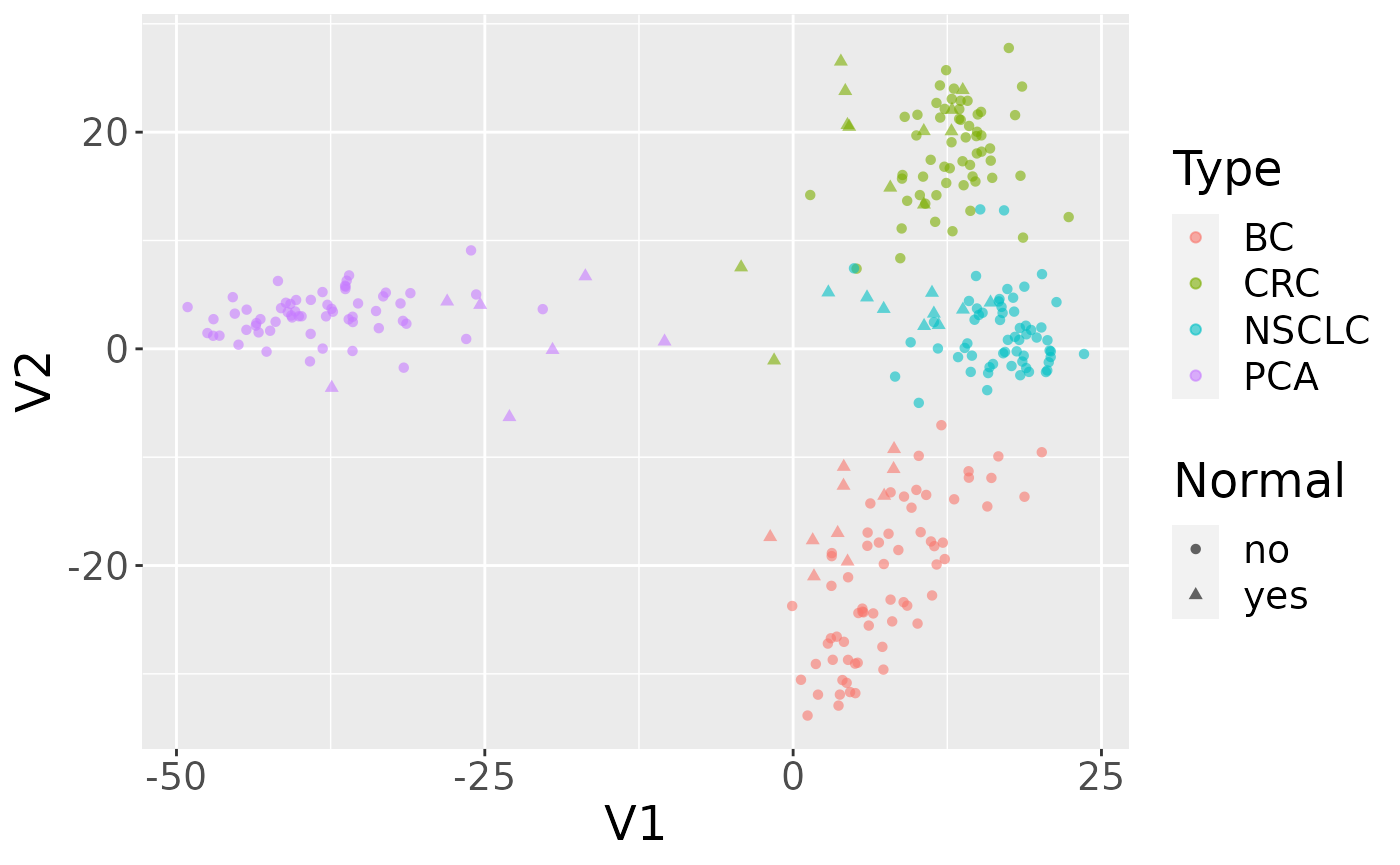
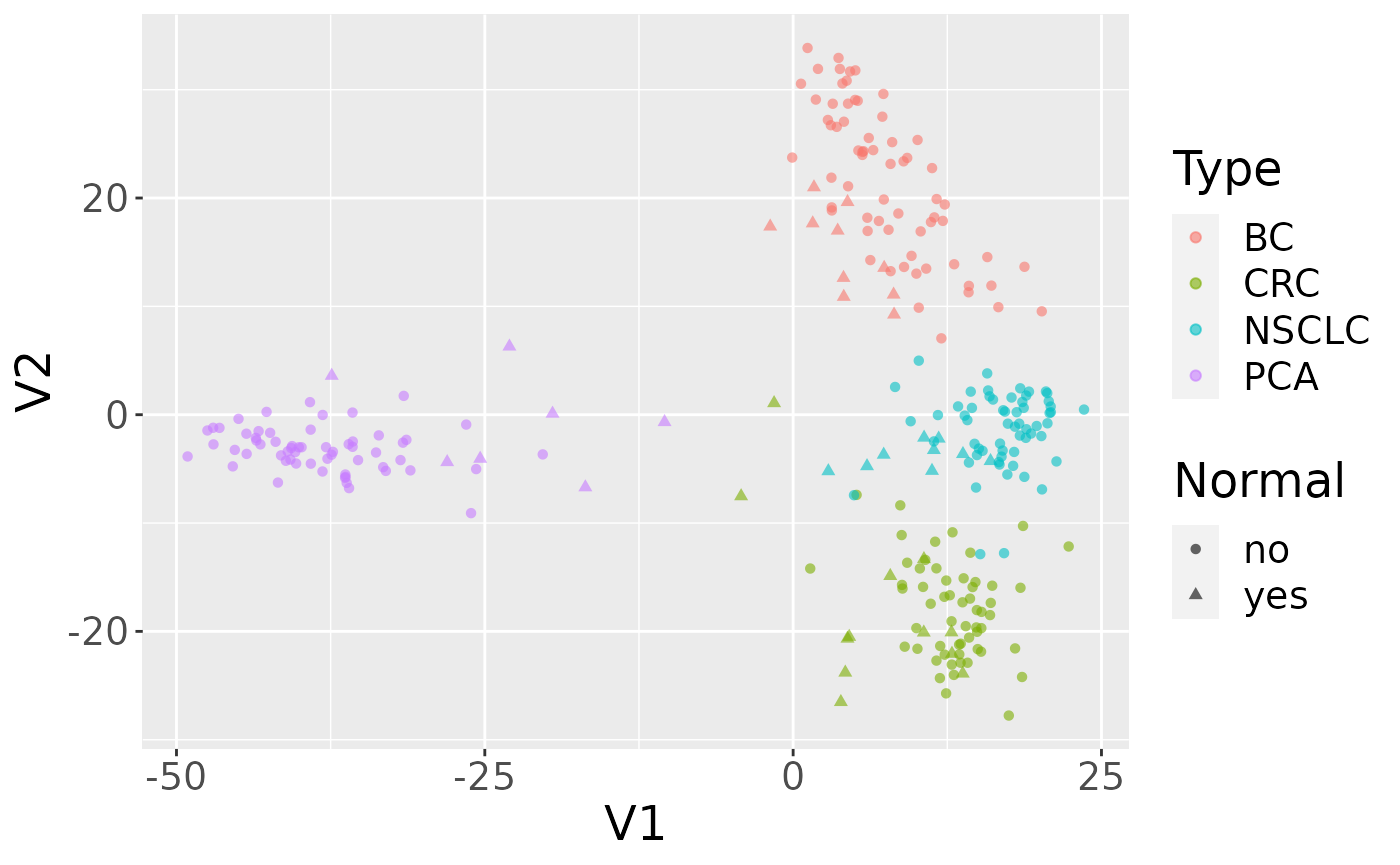
Deploying to gh-pages from  @ 487c33b94a9a2e854070e2649b0909f92d4f21b7 🚀

diff --git a/articles/PublicDataResources.html b/articles/PublicDataResources.html
@@ -225,13 +225,13 @@
 <span class="va">mdsvals</span><span class="op">$</span><span class="va">Type</span><span class="op">=</span><span class="fu"><a href="https://rdrr.io/r/base/factor.html">factor</a></span><span class="op">(</span><span class="fu"><a href="https://rdrr.io/pkg/SummarizedExperiment/man/SummarizedExperiment-class.html">colData</a></span><span class="op">(</span><span class="va">se</span><span class="op">)</span><span class="op">[</span>,<span class="st">'cancer.type.ch1'</span><span class="op">]</span><span class="op">)</span>
 <span class="va">mdsvals</span><span class="op">$</span><span class="va">Normal</span> <span class="op">=</span> <span class="fu"><a href="https://rdrr.io/r/base/factor.html">factor</a></span><span class="op">(</span><span class="fu"><a href="https://rdrr.io/pkg/SummarizedExperiment/man/SummarizedExperiment-class.html">colData</a></span><span class="op">(</span><span class="va">se</span><span class="op">)</span><span class="op">[</span>,<span class="st">'normal.ch1'</span><span class="op">]</span><span class="op">)</span>
 <span class="fu"><a href="https://rdrr.io/r/utils/head.html">head</a></span><span class="op">(</span><span class="va">mdsvals</span><span class="op">)</span></code></pre></div>
-<pre><code>##                   V1        V2 Type Normal
-## GSM2772660  8.531331 -18.57115   BC     no
-## GSM2772661  8.991591 -13.63764   BC     no
-## GSM2772662 10.788973 -13.48403   BC     no
-## GSM2772663  3.127105 -19.13529   BC     no
-## GSM2772664 13.056599 -13.88711   BC     no
-## GSM2772665  7.903717 -13.24731   BC     no</code></pre>
+<pre><code>##                   V1       V2 Type Normal
+## GSM2772660  8.531331 18.57115   BC     no
+## GSM2772661  8.991591 13.63764   BC     no
+## GSM2772662 10.788973 13.48403   BC     no
+## GSM2772663  3.127105 19.13529   BC     no
+## GSM2772664 13.056599 13.88711   BC     no
+## GSM2772665  7.903717 13.24731   BC     no</code></pre>
 <p>And do the plot.</p>
 <div class="sourceCode" id="cb11"><pre class="downlit sourceCode r">
 <code class="sourceCode R"><span class="kw"><a href="https://rdrr.io/r/base/library.html">library</a></span><span class="op">(</span><span class="va"><a href="https://ggplot2.tidyverse.org">ggplot2</a></span><span class="op">)</span>
@@ -290,7 +290,8 @@
 <a href="#find-data" class="anchor"></a>Find data</h4>
 <p>The following code builds a <code>manifest</code> that can be used to guide the download of raw data. Here, filtering finds gene expression files quantified as raw counts using <code>HTSeq</code> from ovarian cancer patients.</p>
 <div class="sourceCode" id="cb15"><pre class="downlit sourceCode r">
-<code class="sourceCode R"><span class="va">ge_manifest</span> <span class="op">=</span> <span class="fu"><a href="https://rdrr.io/pkg/GenomicDataCommons/man/query.html">files</a></span><span class="op">(</span><span class="op">)</span> <span class="op">%&gt;%</span>
+<code class="sourceCode R"><span class="kw"><a href="https://rdrr.io/r/base/library.html">library</a></span><span class="op">(</span><span class="va"><a href="https://magrittr.tidyverse.org">magrittr</a></span><span class="op">)</span>
+<span class="va">ge_manifest</span> <span class="op">=</span> <span class="fu"><a href="https://rdrr.io/pkg/GenomicDataCommons/man/query.html">files</a></span><span class="op">(</span><span class="op">)</span> <span class="op">%&gt;%</span>
     <span class="fu"><a href="https://rdrr.io/pkg/GenomicDataCommons/man/filtering.html">filter</a></span><span class="op">(</span> <span class="op">~</span> <span class="va">cases.project.project_id</span> <span class="op">==</span> <span class="st">'TCGA-OV'</span> <span class="op">&amp;</span>
                 <span class="va">type</span> <span class="op">==</span> <span class="st">'gene_expression'</span> <span class="op">&amp;</span>
                 <span class="va">analysis.workflow_type</span> <span class="op">==</span> <span class="st">'HTSeq - Counts'</span><span class="op">)</span> <span class="op">%&gt;%</span>
@@ -1022,7 +1023,7 @@
 <p>By default, the <code><a href="https://rdrr.io/pkg/curatedTCGAData/man/curatedTCGAData.html">curatedTCGAData()</a></code> function will only show available datasets, and not download anything. The arguments are shown here only for demonstration, the same result is obtained with no arguments:</p>
 <div class="sourceCode" id="cb74"><pre class="downlit sourceCode r">
 <code class="sourceCode R"><span class="fu"><a href="https://rdrr.io/pkg/curatedTCGAData/man/curatedTCGAData.html">curatedTCGAData</a></span><span class="op">(</span>diseaseCode <span class="op">=</span> <span class="st">"*"</span>, assays <span class="op">=</span> <span class="st">"*"</span><span class="op">)</span></code></pre></div>
-<pre><code>## using temporary cache /tmp/Rtmpea0AIg/BiocFileCache</code></pre>
+<pre><code>## using temporary cache /tmp/RtmpkiIQ1v/BiocFileCache</code></pre>
 <pre><code>## snapshotDate(): 2020-10-27</code></pre>
 <pre><code>## See '?curatedTCGAData' for 'diseaseCode' and 'assays' inputs</code></pre>
 <pre><code>##      ah_id                                      title file_size
@@ -2005,7 +2006,7 @@
 <p>It is not an ExperimentHub package, so downloading and serializing is slightly more involved in involves two steps: first, download the gene-level RangedSummarizedExperiment data:</p>
 <div class="sourceCode" id="cb92"><pre class="downlit sourceCode r">
 <code class="sourceCode R"><span class="fu"><a href="https://rdrr.io/pkg/recount/man/download_study.html">download_study</a></span><span class="op">(</span><span class="va">project_info</span><span class="op">$</span><span class="va">project</span><span class="op">)</span></code></pre></div>
-<pre><code>## 2021-04-29 12:21:06 downloading file rse_gene.Rdata to SRP009615</code></pre>
+<pre><code>## 2021-04-29 12:43:01 downloading file rse_gene.Rdata to SRP009615</code></pre>
 <p>followed by loading the data</p>
 <div class="sourceCode" id="cb94"><pre class="downlit sourceCode r">
 <code class="sourceCode R"><span class="fu"><a href="https://rdrr.io/r/base/load.html">load</a></span><span class="op">(</span><span class="fu"><a href="https://rdrr.io/r/base/file.path.html">file.path</a></span><span class="op">(</span><span class="va">project_info</span><span class="op">$</span><span class="va">project</span>, <span class="st">'rse_gene.Rdata'</span><span class="op">)</span><span class="op">)</span></code></pre></div>
